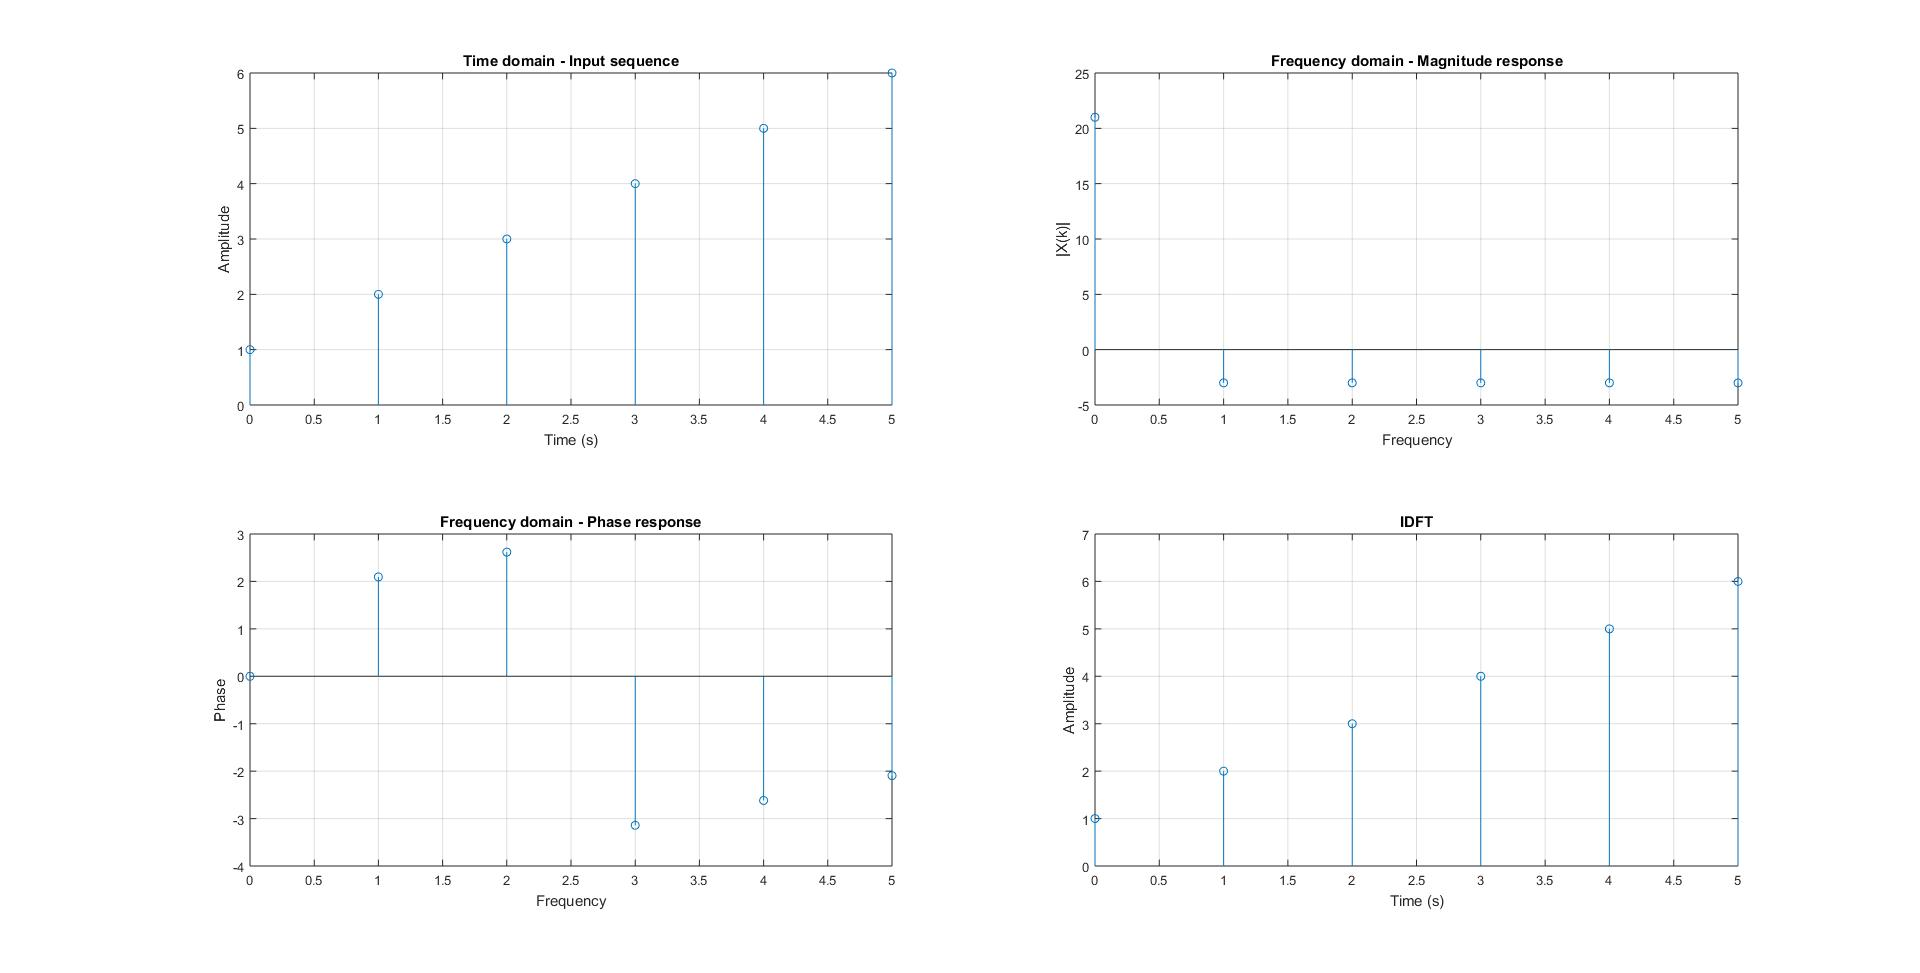
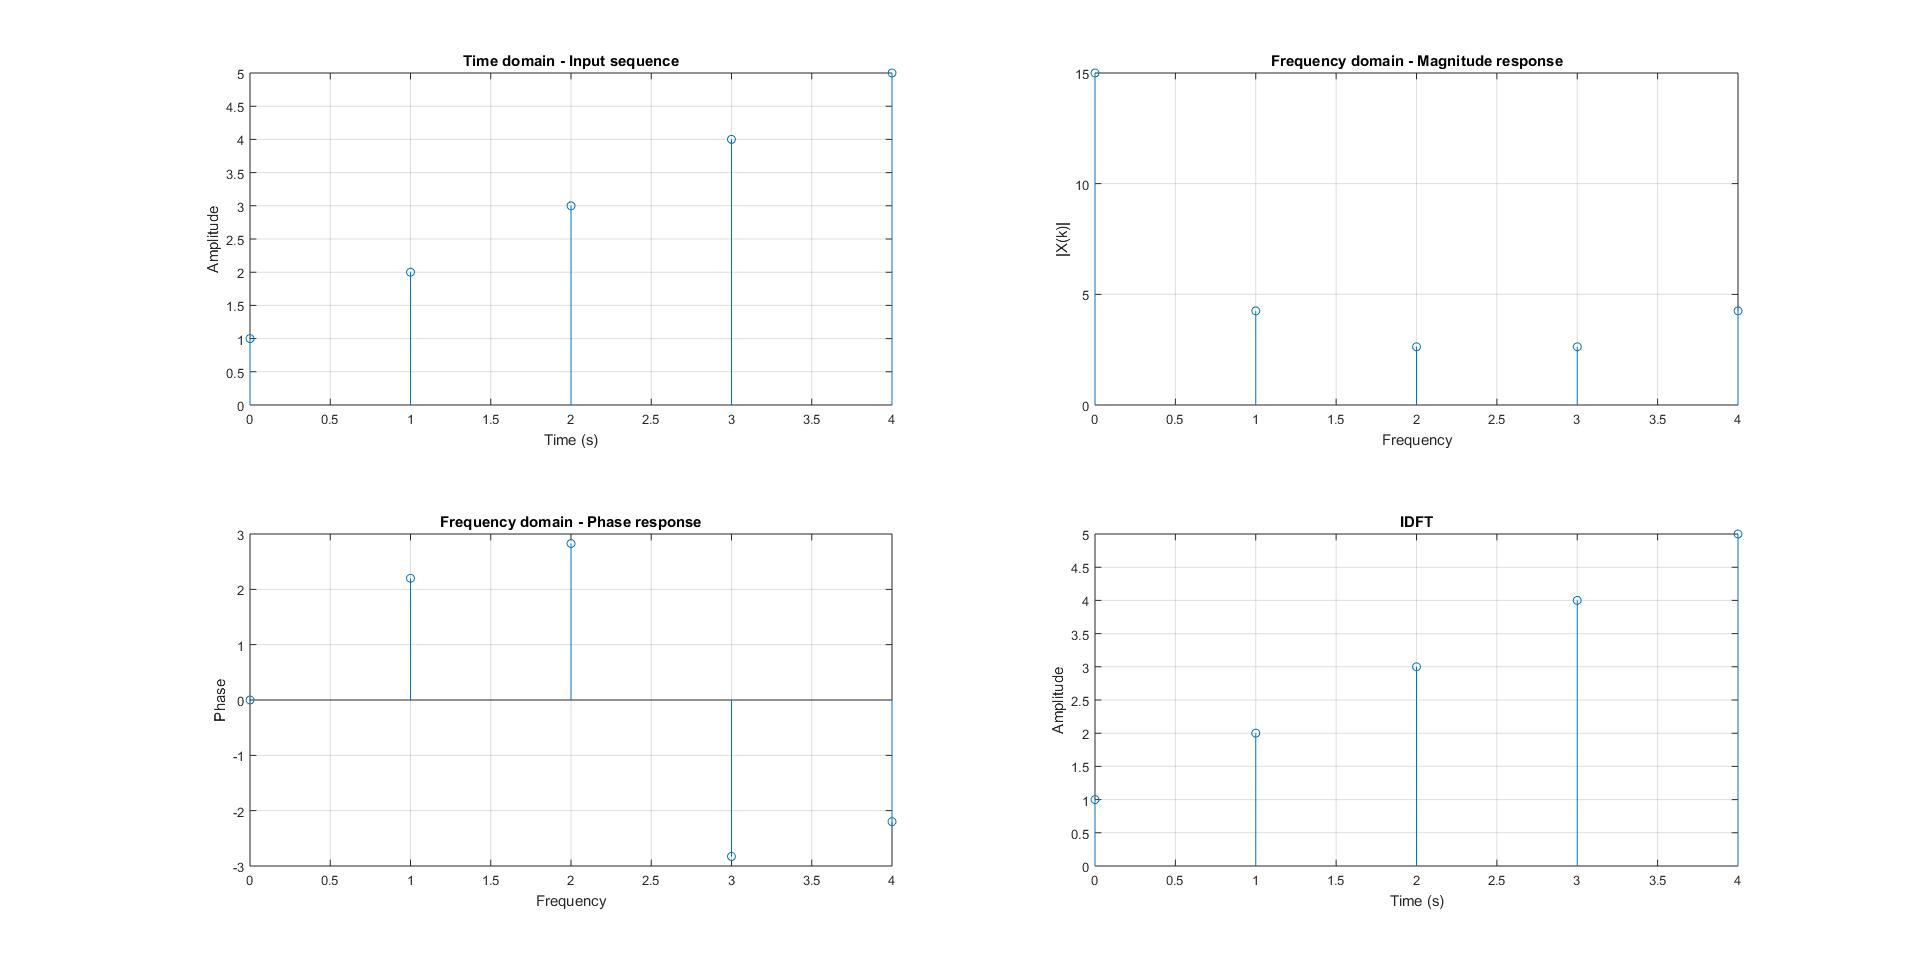
EXP 4 final

diff --git a/LAB4/EXP4a.m b/LAB4/EXP4a.m
@@ -27,7 +27,7 @@ title('Time domain - Input sequence')
 grid on
 
 subplot(222)
-stem(t,X)
+stem(t,abs(X))
 xlabel('Frequency');
 ylabel('|X(k)|');
 title('Frequency domain - Magnitude response')
